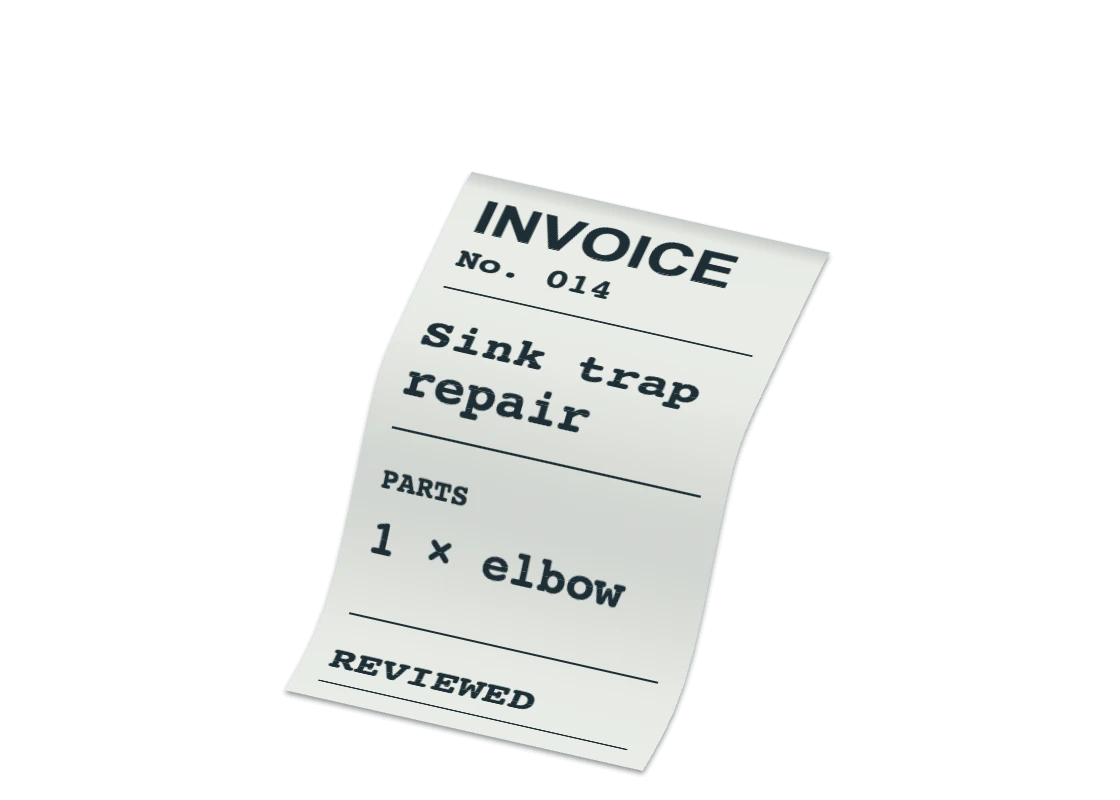
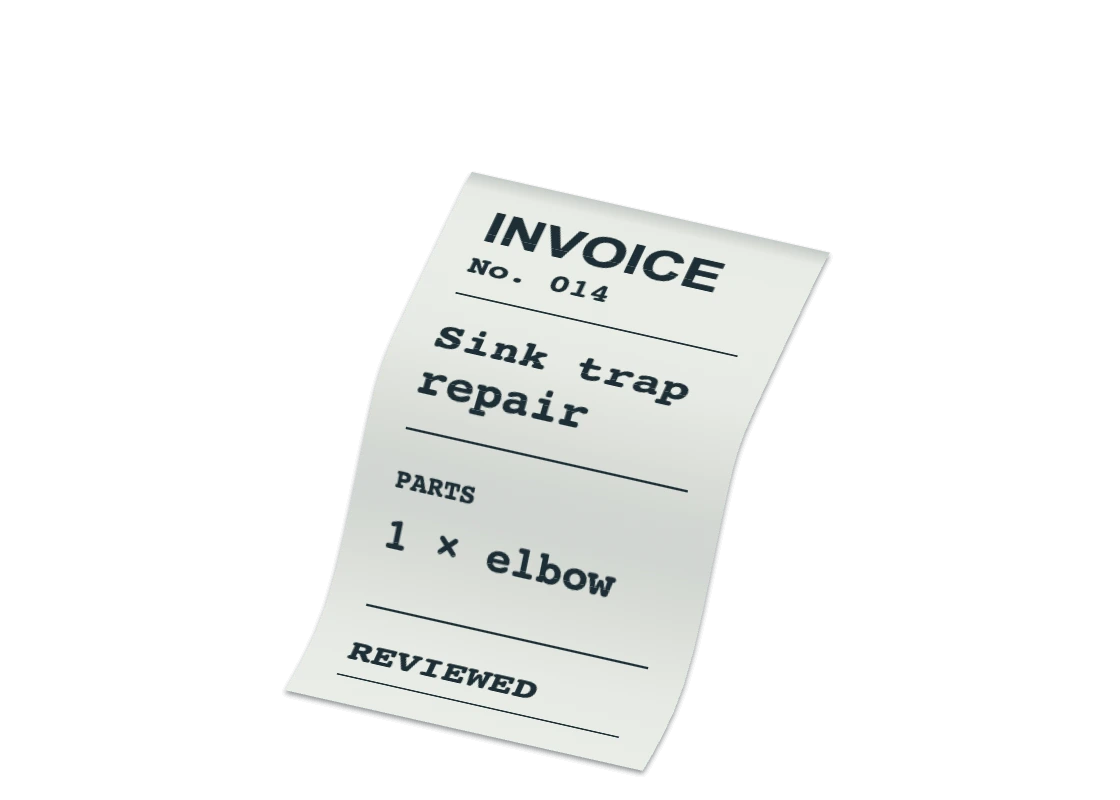
Give the printed invoice smaller type and wider paper margins

diff --git a/src/lib/printer/paper-feed.js b/src/lib/printer/paper-feed.js
@@ -21,20 +21,22 @@ const GUIDE = [
   [572, 284.75, 690.14],
 ];
 const WIDTH = 320;
+const SIDE_MARGIN = 34;
+const PRINT_WIDTH = WIDTH - 2 * SIDE_MARGIN;
 export const LENGTH = GUIDE.at(-1)[0];
 const ACROSS = [358.05, 80.75];
 
 // Print the foot of the invoice first. The finished sheet reads upright from the slot.
 const lines = [
-  [73, 56, "INVOICE"],
-  [117, 33, "No. 014"],
-  [216, 46, "Sink trap"],
-  [268, 46, "repair"],
-  [350, 26, "PARTS"],
-  [406, 42, "1 × elbow"],
-  [525, 38, "REVIEWED"],
+  [81, 51, "INVOICE"],
+  [121, 30, "No. 014"],
+  [215, 42, "Sink trap"],
+  [264, 42, "repair"],
+  [347, 24, "PARTS"],
+  [399, 38, "1 × elbow"],
+  [510, 35, "REVIEWED"],
 ];
-const rules = [144, 297, 461, 546];
+const rules = [148, 295, 450, 532];
 
 export function createFeed(canvas) {
   const context = canvas.getContext("2d");
@@ -74,10 +76,10 @@ export function createFeed(canvas) {
     for (const [y, size, text] of lines) {
       if (y + size * 0.25 < top || y - size > bottom) continue;
       head.font = `bold ${size}px ${text === "INVOICE" ? "Arial, sans-serif" : "monospace"}`;
-      head.fillText(text, 22, y, WIDTH - 44);
+      head.fillText(text, SIDE_MARGIN, y, PRINT_WIDTH);
     }
     for (const y of rules) {
-      if (y + 2 >= top && y <= bottom) head.fillRect(22, y, WIDTH - 44, 2);
+      if (y + 2 >= top && y <= bottom) head.fillRect(SIDE_MARGIN, y, PRINT_WIDTH, 2);
     }
     head.restore();
     printed = next;
